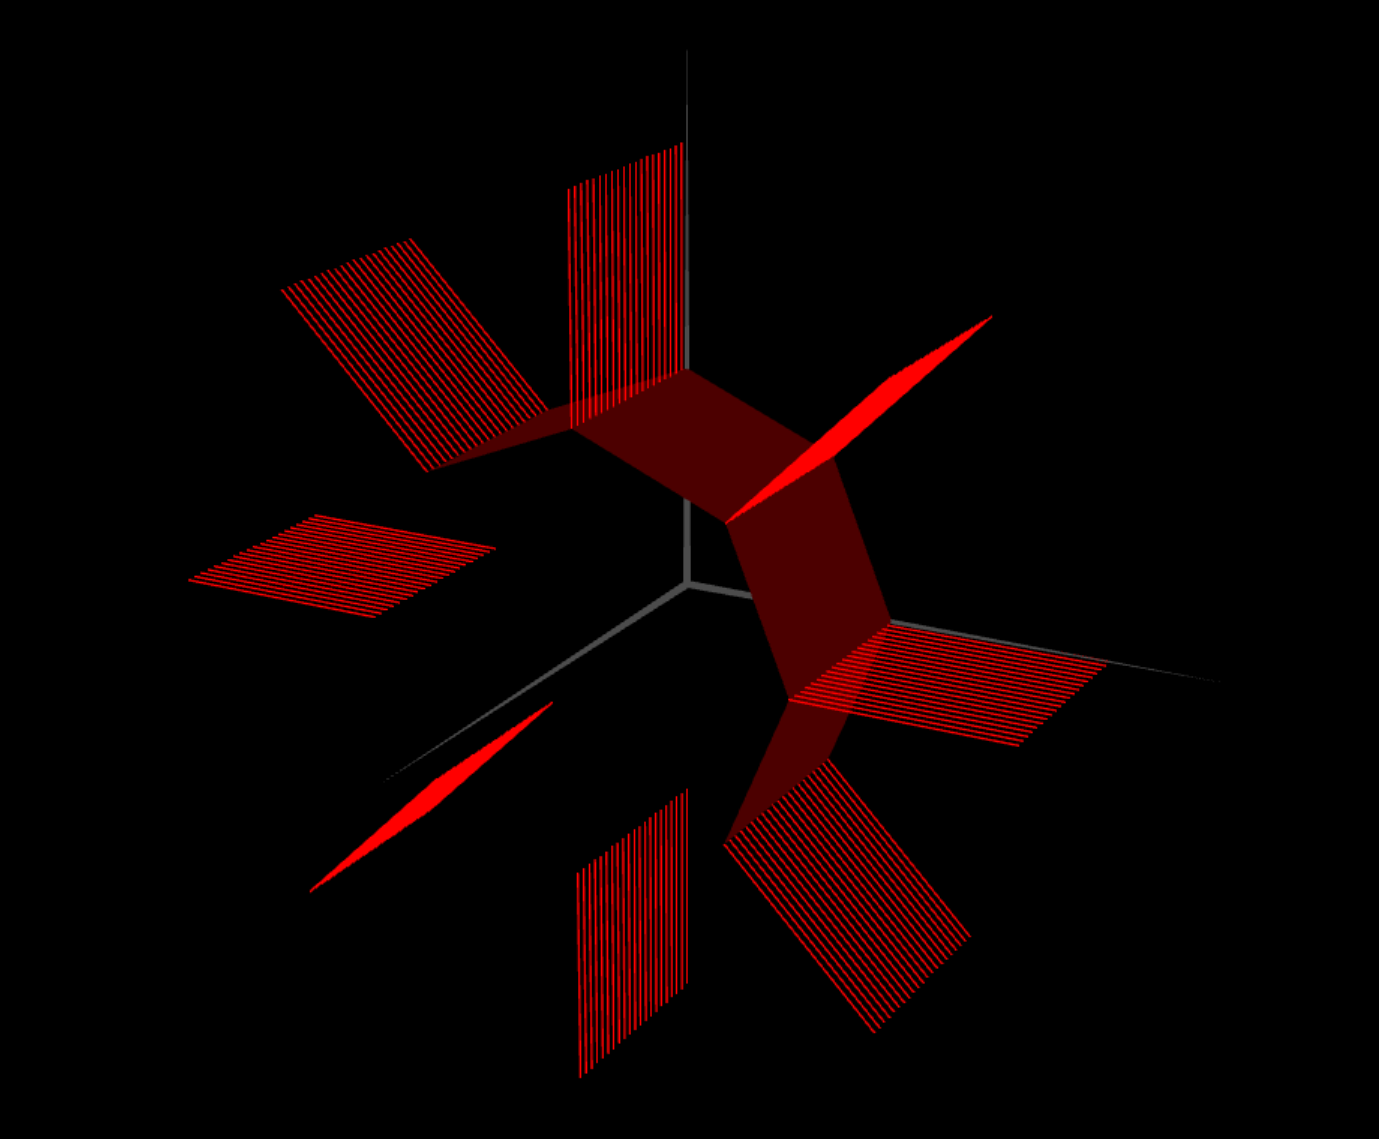
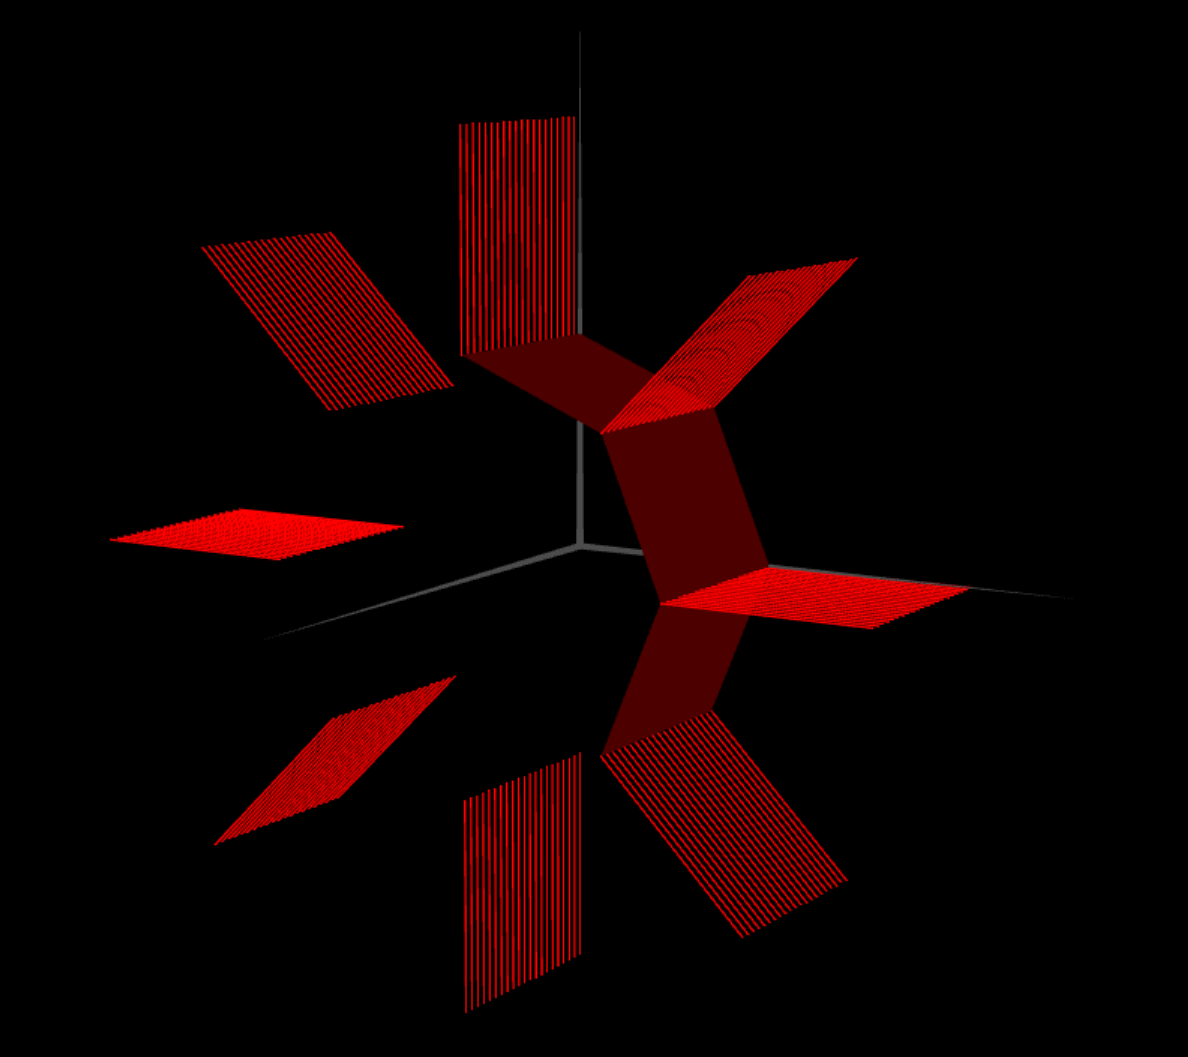
fixed cilinder

diff --git a/tp3/MyCilinder.js b/tp3/MyCilinder.js
@@ -29,14 +29,15 @@ export class MyCilinder extends CGFobject {
 
 		for(var i = 0; i < this.slices; i++){
 			var step = 1/this.stacks;
+			this.vertices.push(Math.cos(ang),-Math.sin(ang), 0);
+			this.normals.push(Math.cos(ang), -Math.sin(ang), 0);
 			for (var j = 0; j < this.stacks; j ++){
-				this.vertices.push(Math.cos(ang),-Math.sin(ang), j*step);
 				this.vertices.push(Math.cos(ang),-Math.sin(ang), (j+1)*step);
-				this.indices.push(i*this.stacks*2+j*2, ((i*this.stacks*2+j*2)+this.stacks*2+1) % (this.slices*this.stacks*2), ((i*this.stacks*2+j*2)+this.stacks*2) % (this.slices*this.stacks*2));
-				this.indices.push(i*this.stacks*2+j*2, ((i*this.stacks*2+j*2)+1) % (this.slices*this.stacks*2), ((i*this.stacks*2+j*2)+this.stacks*2+1) % (this.slices*this.stacks*2));
-				this.normals.push(Math.cos(ang), -Math.sin(ang), 0);
+				this.indices.push(i*(this.stacks+1)+j, ((i*(this.stacks+1)+j)+this.stacks+2) % (this.slices*(this.stacks+1)), ((i*(this.stacks+1)+j)+this.stacks+1) % (this.slices*(this.stacks+1)));
+				this.indices.push(i*(this.stacks+1)+j, ((i*(this.stacks+1)+j)+1) % (this.slices*(this.stacks+1)), ((i*(this.stacks+1)+j)+this.stacks+2) % (this.slices*(this.stacks+1)));
 				this.normals.push(Math.cos(ang), -Math.sin(ang), 0);
 			}
+			//this.vertices.pop();
 			ang+=alphaAng;
 		}
 
